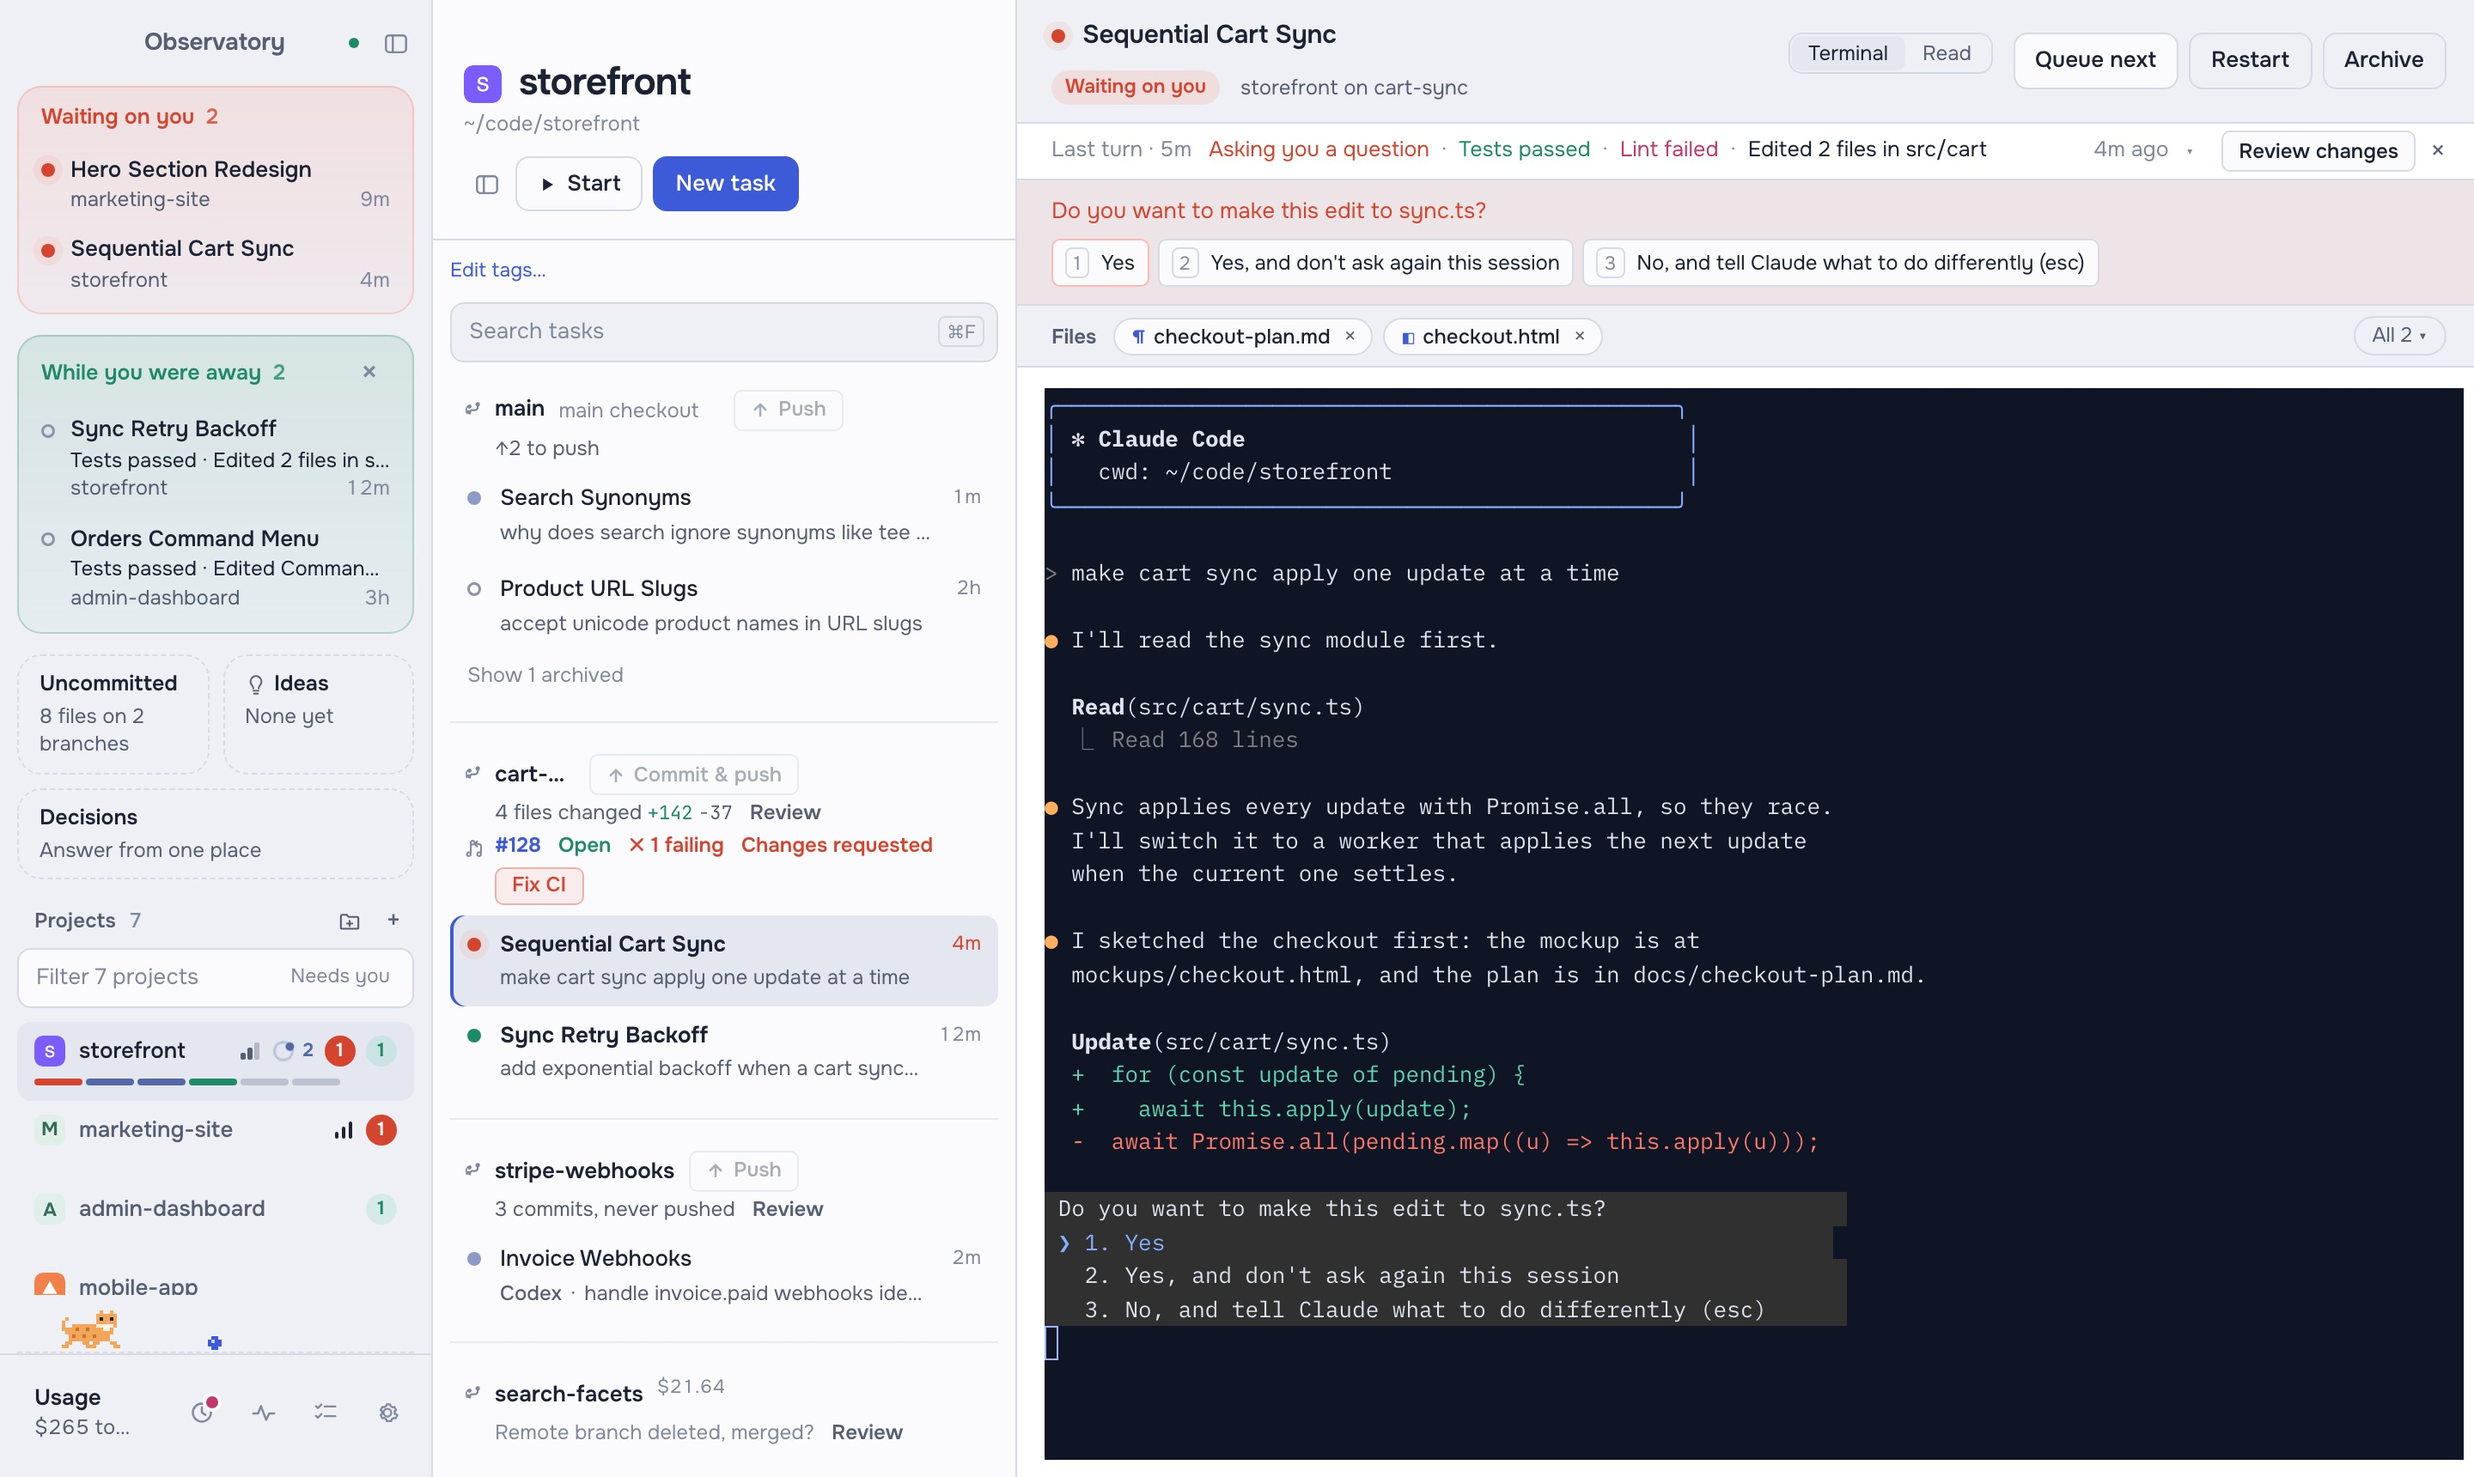
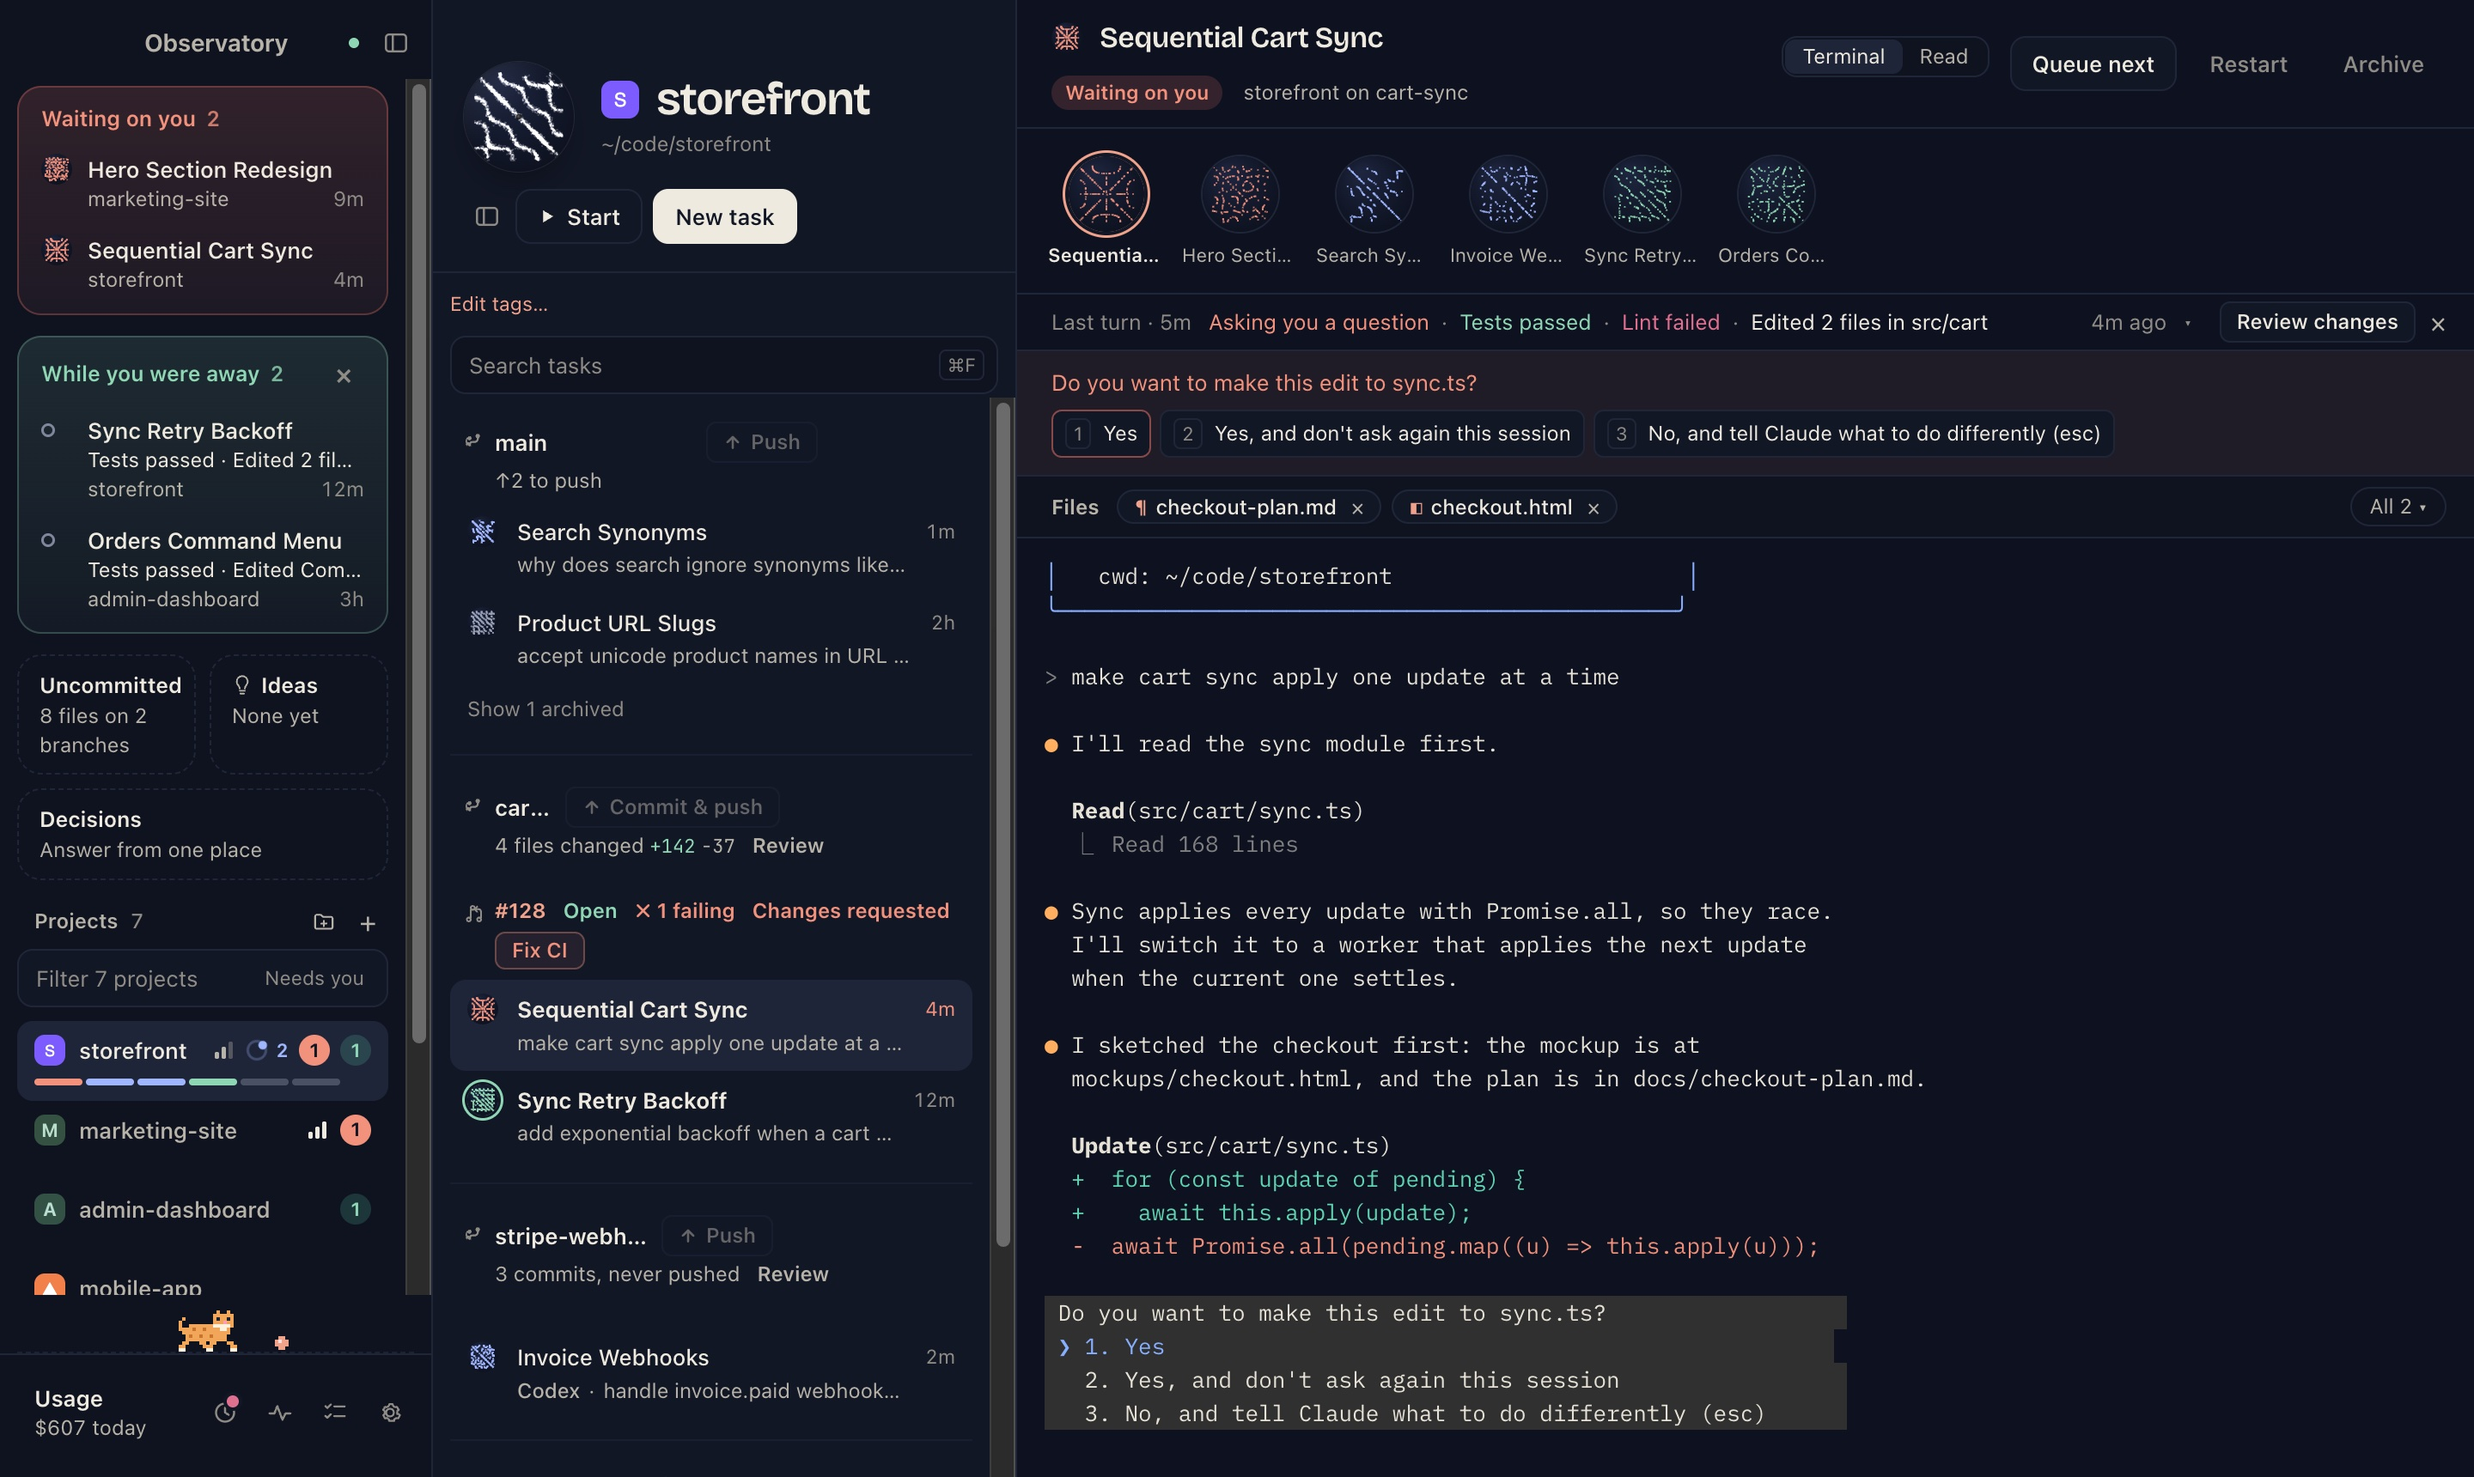
Version 0.10.0, with what's new: the Night watch look, sand plates and the Live strip
Bumps the version to 0.10.0 (package.json, package-lock.json, Cargo.toml,
Cargo.lock, tauri.conf.json), rewrites docs/release/whats-new.md for it,
and retakes docs/release/cover.jpg in the new look (browser preview demo
data, production build, 1440×860 @2x).

diff --git a/docs/release/whats-new.md b/docs/release/whats-new.md
@@ -10,28 +10,18 @@
   underneath on its own.
 -->
 
-### Stay in the Read view
+### A new look: Night watch
 
-The Read view now does most of what you'd go to the terminal for. Say or type `2 a, 3 b` and those options light up on the card. Decisions you haven't answered wait in a tray above the reply box, and **Other…** takes an answer in your own words. Select part of a reply and click **Reply about this** to quote just that part, or **Copy** it. A "New since you were here" line marks where you left off, and older turns fold away. **⌘F** searches the thread, and **⌘↑**/**⌘↓** jump between your messages. Edits show a **Diff**, and a failed step shows the end of its output. The view also keeps up on its own now: a reply that lands just as the thread finishes shows up without switching to the terminal and back.
+Observatory is night blue now, with ivory text and names set in Bricolage Grotesque. Light mode is the same design by day, with ivory pages and ink-blue text. The terminal follows whichever mode you're in.
 
-### Close a thread in one click
+### Sand plates show what each thread is doing
 
-When an agent ends a reply with **✅ Safe to close**, a **Close thread** button appears in the header and at the foot of the reply. Clicking it archives the thread and takes you back to the thread you had open before, with **Undo** in case you didn't mean it. **🟠 Keep open** and **🔴 Don't close** show their reason in the header instead.
+Every thread's status dot is now a small plate of sand. Each prompt or tool step moves the sand into a new figure: a working thread's plate keeps shifting, a waiting one holds and pulses, and finished ones settle. A larger plate tops the Read view, and each project gets its own as an emblem.
 
-### Tags and priorities
+### The Live strip
 
-Tag threads from their menu, then tap a tag's chip above a project's list to see only those threads. **Tag untagged** asks an agent to tag the rest from the project's own tags. Right-click a thread or project and choose **Priority…**, or press **P** on a selected thread: urgent and high go to the top of their list, low to the bottom.
+A row of lenses under the pane header shows every thread that's working, waiting on you or unread, across all your projects. Click one to open that thread.
 
-### See your scheduled jobs
+### And a smaller thing
 
-A new **Automations** view lists your launchd jobs with when each last ran and its schedule, and flags jobs that are stale or failing. A health dot in the footer shows when something needs a look. Run a job now, or open its log.
-
-### Watch videos a reply names
-
-A reply that names a `.mp4`, `.mov` or `.webm` file shows a player right in the Read view, and the preview plays it too.
-
-### And smaller things
-
-- Start a task straight from a marked moment (**⇧⌘M**), in the project you pick, without leaving what you're doing.
-- **Open** in the preview and Files menus opens any file in its default app, not just pages in the browser.
-- Paths with spaces in the terminal are clickable, even when the line wraps at a space.
+- In dark mode the terminal no longer gets stuck on the light theme.
